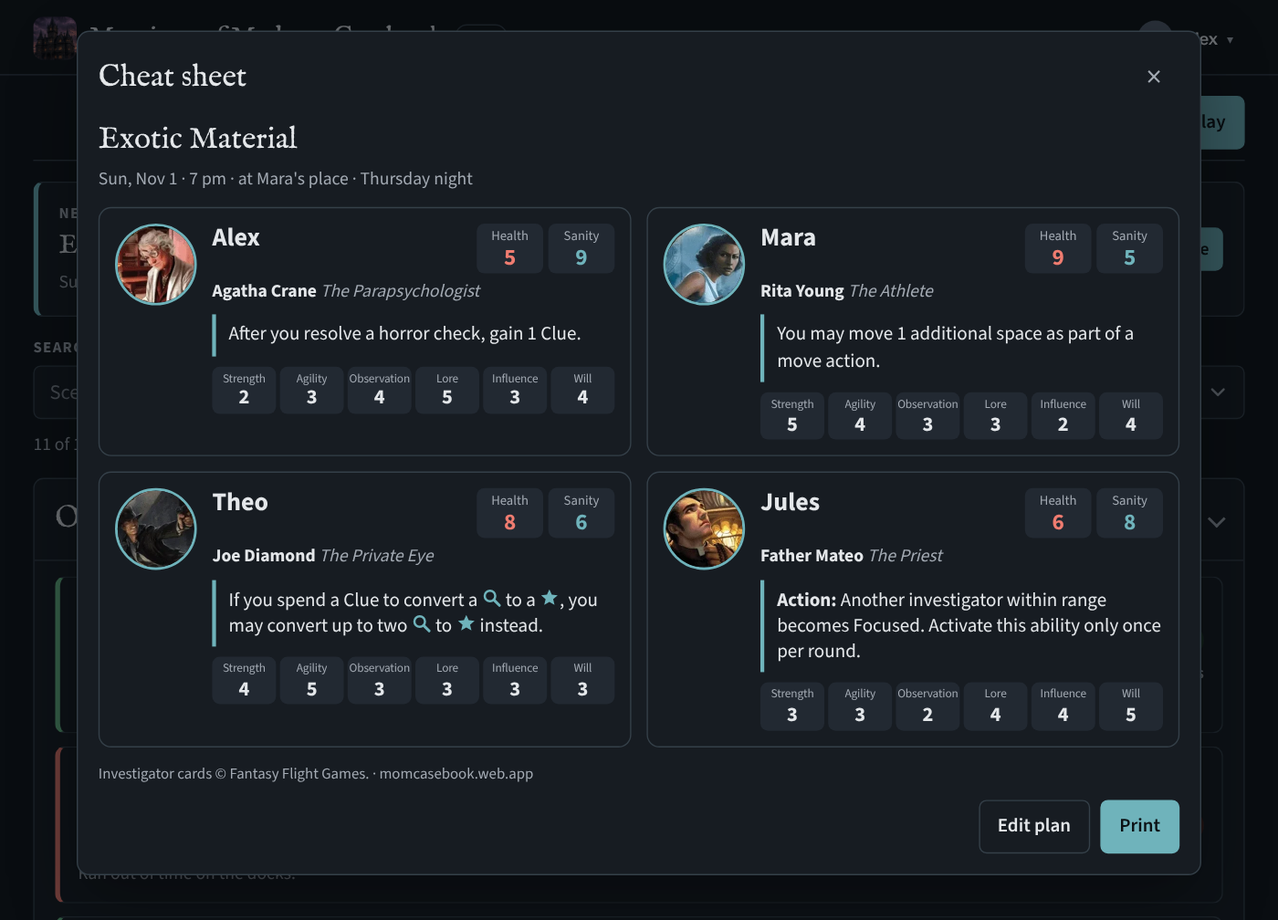
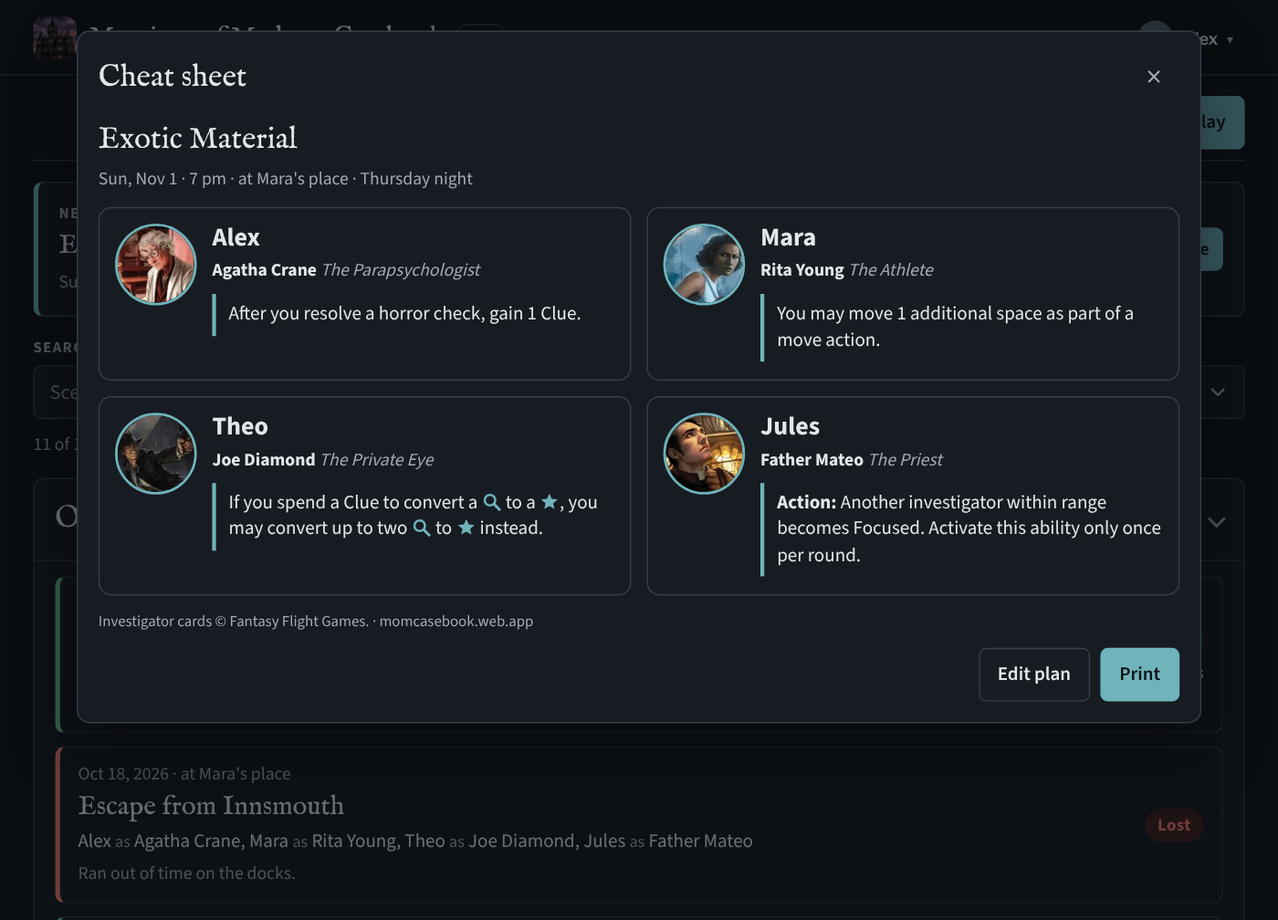
Cheat sheet: just who plays whom and their special, no stats (v87)
Claude-Session: https://claude.ai/code/session_019kh66ouXYwNDK6aTZ456xr

diff --git a/js/investigator-cards.js b/js/investigator-cards.js
@@ -1,48 +1,48 @@
 /* What's printed on each official investigator's card (Mansions of Madness Second Edition), for the game-night cheat
-   sheet: title, health, sanity, the six skills and the ability, in English as on the cards. Read from the card images in
+   sheet: title and ability, in English as on the cards. Read from the card images in
    img/investigators/ (github.com/any2cards/mom2e); Carson Sinclair's image there carries Agatha Crane's ability by
    mistake, so his is from the printed card as quoted by players. Card text © Fantasy Flight Games, used under Asmodee's
    community IP policy. In the ability, {clue} is the magnifying-glass die face and {success} the success (star) face.
-   name: [title, health, sanity, [strength, agility, observation, lore, influence, will], ability] */
+   name: [title, ability] */
 window.MOM_CARDS={
-  'Agatha Crane':['The Parapsychologist',5,9,[2,3,4,5,3,4],'After you resolve a horror check, gain 1 Clue.'],
-  'Agnes Baker':['The Waitress',7,7,[2,3,4,5,4,3],'You begin the game with the Storm of Spirits Spell.'],
-  'Akachi Onyele':['The Shaman',6,8,[3,2,4,4,3,5],'Effects cannot cause you to discard Clues unless you choose to.'],
-  'Amanda Sharpe':['The Student',7,7,[3,3,4,4,3,4],'You may perform two additional puzzle steps while attempting a puzzle.'],
-  '"Ashcan" Pete':['The Drifter',7,7,[4,4,4,3,2,4],'You begin the game with the Duke Unique Item.'],
-  'Bob Jenkins':['The Salesman',7,7,[3,3,4,2,5,4],'Once per round, when you spend an action to interact with a Person, you may flip 1 Horror facedown or discard 1 facedown Horror.'],
-  'Carolyn Fern':['The Psychologist',6,8,[3,2,4,3,4,5],'Action: You or another investigator within range flip 1 Horror facedown or discard 1 facedown Horror.'],
-  'Carson Sinclair':['The Butler',8,6,[3,2,5,4,4,3],'Action: Another investigator within range may perform 1 action. Activate this ability only once per round.'],
-  'Charlie Kane':['The Politician',5,9,[3,2,4,3,5,4],'While within range of a Person, you may convert an {clue} to a {success}. Activate this ability only once per test.'],
-  'Daniela Reyes':['The Mechanic',8,6,[5,4,3,3,3,3],'When a puzzle is solved, you may either gain 2 Clues or discard 1 Horror.'],
-  'Darrell Simmons':['The Photographer',8,6,[3,4,5,3,3,3],'Once per round, if you would gain a Clue, you may become Focused instead.'],
-  'Dexter Drake':['The Magician',6,8,[3,3,3,5,4,3],'Once per round, when you gain a Spell, become Focused.'],
-  'Diana Stanley':['The Reformed Cultist',8,6,[3,4,4,5,3,2],'If you would suffer 2 or more Horror, suffer 1 fewer Horror instead.'],
-  'Father Mateo':['The Priest',6,8,[3,3,2,4,4,5],'Action: Another investigator within range becomes Focused. Activate this ability only once per round.'],
-  'Finn Edwards':['The Bootlegger',8,6,[3,3,4,3,4,4],'Once per round, you may move 1 space before or after performing a Search action.'],
-  'Gloria Goldberg':['The Author',7,7,[2,3,4,4,4,4],'At the start of your turn, if you have no Clues, gain 1 Clue.'],
-  'Harvey Walters':['The Professor',5,9,[3,2,4,4,4,4],'Action: Another investigator within range gains 1 Clue. Activate this ability only once per round.'],
-  'Jenny Barnes':['The Dilettante',8,6,[3,4,3,3,5,3],'Action: If you have no Clues, gain 2 Clues and discard 1 Horror.'],
-  'Jim Culver':['The Musician',6,8,[3,3,3,4,4,4],'You begin the game with the Golden Trumpet Unique Item.'],
-  'Joe Diamond':['The Private Eye',8,6,[4,5,3,3,3,3],'If you spend a Clue to convert a {clue} to a {success}, you may convert up to two {clue} to {success} instead.'],
-  'Kate Winthrop':['The Scientist',6,8,[3,3,5,4,3,3],'You begin the game with the Flux Stabilizer Unique Item.'],
-  'Leo Anderson':['The Expedition Leader',7,7,[4,4,4,2,3,4],'Once per round, when you perform a move action, another investigator may move 1 space.'],
-  'Lily Chen':['The Martial Artist',7,7,[4,4,3,3,3,4],'While you are attacking unarmed, if a monster would suffer 1 or more damage, it suffers 2 additional damage.'],
-  'Mandy Thompson':['The Researcher',6,8,[2,3,5,4,4,3],'Once per round, when you gain a Clue, gain 1 additional Clue.'],
-  'Marie Lambeau':['The Entertainer',6,8,[3,4,2,4,5,3],'At the start of your turn, you may cast a Spell without spending an action.'],
-  'Michael McGlen':['The Gangster',9,5,[5,3,4,2,3,4],'Whenever a monster is defeated, become Focused.'],
-  'Minh Thi Phan':['The Secretary',7,7,[3,4,4,3,4,3],'Once per round, you or another investigator within range may reroll 1 die while resolving a test.'],
-  'Monterey Jack':['The Archaeologist',8,6,[5,3,4,3,3,3],'Other investigators in your space do not need to evade monsters.'],
-  'Norman Withers':['The Astronomer',6,8,[3,3,4,4,2,5],'Action: If you are in an outdoor space, gain 2 Clues or discard 1 Horror. Activate this ability only once per round.'],
-  'Preston Fairmont':['The Millionaire',8,6,[4,4,3,2,4,3],'Once per round, when you gain an Item, you may flip 1 Horror facedown, or discard 1 facedown Horror.'],
-  'Rita Young':['The Athlete',9,5,[5,4,3,3,2,4],'You may move 1 additional space as part of a move action.'],
-  'Silas Marsh':['The Sailor',9,5,[4,5,4,2,3,3],'Once per round, you may flip 1 Horror faceup to reroll one or all of your dice while resolving a test.'],
-  'Sister Mary':['The Nun',6,8,[3,3,3,4,3,5],'Once per round, another investigator within range may convert an {clue} to a {success} while resolving a test.'],
-  'Tommy Muldoon':['The Rookie Cop',7,7,[4,4,4,2,4,3],'You begin the game with the Becky Unique Item.'],
-  'Trish Scarborough':['The Spy',8,6,[4,4,5,2,3,3],'Once per round, you may convert up to two {clue} to {success} while performing a Search action.'],
-  'Ursula Downs':['The Explorer',7,7,[3,4,4,4,3,3],'Once per round, you may move 1 space before or after performing an explore action or resolving the effects of a Sight token.'],
-  'Vincent Lee':['The Doctor',8,6,[4,2,4,3,4,4],'Action: You or another investigator within range flip 1 Damage facedown or discard 1 facedown Damage.'],
-  'Wendy Adams':['The Urchin',6,8,[3,5,4,3,3,3],'You cannot become Stunned or Restrained.'],
-  'William Yorick':['The Gravedigger',7,7,[4,3,4,3,3,4],'Whenever a monster is defeated, gain 1 Clue.'],
-  'Wilson Richards':['The Handyman',8,6,[5,4,3,2,4,3],'After you resolve a horror check, become Focused.']
+  'Agatha Crane':['The Parapsychologist','After you resolve a horror check, gain 1 Clue.'],
+  'Agnes Baker':['The Waitress','You begin the game with the Storm of Spirits Spell.'],
+  'Akachi Onyele':['The Shaman','Effects cannot cause you to discard Clues unless you choose to.'],
+  'Amanda Sharpe':['The Student','You may perform two additional puzzle steps while attempting a puzzle.'],
+  '"Ashcan" Pete':['The Drifter','You begin the game with the Duke Unique Item.'],
+  'Bob Jenkins':['The Salesman','Once per round, when you spend an action to interact with a Person, you may flip 1 Horror facedown or discard 1 facedown Horror.'],
+  'Carolyn Fern':['The Psychologist','Action: You or another investigator within range flip 1 Horror facedown or discard 1 facedown Horror.'],
+  'Carson Sinclair':['The Butler','Action: Another investigator within range may perform 1 action. Activate this ability only once per round.'],
+  'Charlie Kane':['The Politician','While within range of a Person, you may convert an {clue} to a {success}. Activate this ability only once per test.'],
+  'Daniela Reyes':['The Mechanic','When a puzzle is solved, you may either gain 2 Clues or discard 1 Horror.'],
+  'Darrell Simmons':['The Photographer','Once per round, if you would gain a Clue, you may become Focused instead.'],
+  'Dexter Drake':['The Magician','Once per round, when you gain a Spell, become Focused.'],
+  'Diana Stanley':['The Reformed Cultist','If you would suffer 2 or more Horror, suffer 1 fewer Horror instead.'],
+  'Father Mateo':['The Priest','Action: Another investigator within range becomes Focused. Activate this ability only once per round.'],
+  'Finn Edwards':['The Bootlegger','Once per round, you may move 1 space before or after performing a Search action.'],
+  'Gloria Goldberg':['The Author','At the start of your turn, if you have no Clues, gain 1 Clue.'],
+  'Harvey Walters':['The Professor','Action: Another investigator within range gains 1 Clue. Activate this ability only once per round.'],
+  'Jenny Barnes':['The Dilettante','Action: If you have no Clues, gain 2 Clues and discard 1 Horror.'],
+  'Jim Culver':['The Musician','You begin the game with the Golden Trumpet Unique Item.'],
+  'Joe Diamond':['The Private Eye','If you spend a Clue to convert a {clue} to a {success}, you may convert up to two {clue} to {success} instead.'],
+  'Kate Winthrop':['The Scientist','You begin the game with the Flux Stabilizer Unique Item.'],
+  'Leo Anderson':['The Expedition Leader','Once per round, when you perform a move action, another investigator may move 1 space.'],
+  'Lily Chen':['The Martial Artist','While you are attacking unarmed, if a monster would suffer 1 or more damage, it suffers 2 additional damage.'],
+  'Mandy Thompson':['The Researcher','Once per round, when you gain a Clue, gain 1 additional Clue.'],
+  'Marie Lambeau':['The Entertainer','At the start of your turn, you may cast a Spell without spending an action.'],
+  'Michael McGlen':['The Gangster','Whenever a monster is defeated, become Focused.'],
+  'Minh Thi Phan':['The Secretary','Once per round, you or another investigator within range may reroll 1 die while resolving a test.'],
+  'Monterey Jack':['The Archaeologist','Other investigators in your space do not need to evade monsters.'],
+  'Norman Withers':['The Astronomer','Action: If you are in an outdoor space, gain 2 Clues or discard 1 Horror. Activate this ability only once per round.'],
+  'Preston Fairmont':['The Millionaire','Once per round, when you gain an Item, you may flip 1 Horror facedown, or discard 1 facedown Horror.'],
+  'Rita Young':['The Athlete','You may move 1 additional space as part of a move action.'],
+  'Silas Marsh':['The Sailor','Once per round, you may flip 1 Horror faceup to reroll one or all of your dice while resolving a test.'],
+  'Sister Mary':['The Nun','Once per round, another investigator within range may convert an {clue} to a {success} while resolving a test.'],
+  'Tommy Muldoon':['The Rookie Cop','You begin the game with the Becky Unique Item.'],
+  'Trish Scarborough':['The Spy','Once per round, you may convert up to two {clue} to {success} while performing a Search action.'],
+  'Ursula Downs':['The Explorer','Once per round, you may move 1 space before or after performing an explore action or resolving the effects of a Sight token.'],
+  'Vincent Lee':['The Doctor','Action: You or another investigator within range flip 1 Damage facedown or discard 1 facedown Damage.'],
+  'Wendy Adams':['The Urchin','You cannot become Stunned or Restrained.'],
+  'William Yorick':['The Gravedigger','Whenever a monster is defeated, gain 1 Clue.'],
+  'Wilson Richards':['The Handyman','After you resolve a horror check, become Focused.']
 };

diff --git a/css/app.css b/css/app.css
@@ -579,21 +579,10 @@ button.ipill:focus-visible{outline:2px solid var(--focus);outline-offset:2px}
 .ch-ab{margin:4px 0 2px;padding:6px 0 6px 10px;border-left:3px solid var(--accent);font-size:15px;line-height:1.35}
 .ch-ab .die{display:inline-block;width:1.05em;height:1.05em;vertical-align:-.15em;color:var(--accent)}
 .ch-ab .die svg{width:100%;height:100%;display:block}
-.ch-top{display:flex;align-items:flex-start;justify-content:space-between;gap:8px}
-.ch-hs{display:flex;gap:4px;flex:none}
-.ch-hs span{display:flex;flex-direction:column;align-items:center;min-width:52px;padding:2px 6px;border-radius:6px;background:var(--surface2)}
-.ch-hs i,.ch-stats i{font-style:normal;font-size:10.5px;color:var(--muted);max-width:100%;overflow:hidden;text-overflow:ellipsis;white-space:nowrap}
-.ch-hs b{font-size:18px;line-height:1.1}
-.ch-h b{color:var(--bad)}
-.ch-s b{color:var(--accent)}
-.ch-stats{display:grid;grid-template-columns:repeat(6,minmax(0,1fr));gap:3px;margin-top:2px;text-align:center}
-.ch-stats span{display:flex;flex-direction:column;align-items:center;padding:3px 1px;border-radius:6px;background:var(--surface2);min-width:0}
-.ch-stats b{font-size:16px;line-height:1.1}
-.ch-stats i{font-size:9.5px;letter-spacing:-.01em}
 .dlg .ch-head .lbl{display:none}
 .ch-foot{margin:12px 0 0;font-size:12px;color:var(--muted)}
 #printarea{display:none}
-@media (max-width:420px){.ch-grid{grid-template-columns:1fr}.ch-face{width:48px;height:48px}.ch-stats{grid-template-columns:repeat(3,minmax(0,1fr))}}
+@media (max-width:420px){.ch-grid{grid-template-columns:1fr}.ch-face{width:48px;height:48px}}
 @media print{
   @page{margin:12mm}
   body.printing>*:not(#printarea){display:none!important}
@@ -602,11 +591,8 @@ button.ipill:focus-visible{outline:2px solid var(--focus);outline-offset:2px}
   body.printing #printarea{display:block;font-size:12pt;--surface:#fff;--surface2:#e1e5e8;--ink:#1a1f26;--muted:#555d68;--line:#bcc3ca;--accent:#1d5c63;--bad:#a3322a;color:var(--ink)}
   /* one wide card per seat: big enough to read across the table, up to eight on a page */
   #printarea .ch-grid{grid-template-columns:1fr;gap:8px}
-  #printarea .ch-card{padding:8px 12px;gap:14px}
+  #printarea .ch-card{padding:8px 12px;gap:14px;align-items:center}
   #printarea .ch-face{width:58px;height:58px}
-  #printarea .ch-body{display:grid;grid-template-columns:minmax(0,1fr) auto;column-gap:16px;row-gap:2px}
-  #printarea .ch-top,#printarea .ch-inv,#printarea .ch-ab{grid-column:1}
-  #printarea .ch-stats{grid-column:2;grid-row:1/4;align-self:center;grid-template-columns:repeat(3,64px)}
   #printarea .ch-ab{font-size:13pt;margin:2px 0 0}
   #printarea *{-webkit-print-color-adjust:exact;print-color-adjust:exact}
 }

diff --git a/js/app.js b/js/app.js
@@ -427,16 +427,12 @@ function abilityHtml(txt){
   return esc(txt).replace(/^Action:/,'<b>Action:</b>').replace(/\{(clue|success)\}/g,function(m,k){var nm=k==='clue'?t('clue (magnifying glass)'):t('success');return '<span class="die" role="img" aria-label="'+nm+'" title="'+nm+'">'+DIE_ICON[k]+'</span>';});
 }
 function cheatHtml(sc,pl){
-  var sk=[t('Strength'),t('Agility'),t('Observation'),t('Lore'),t('Influence'),t('Will')];
   var cast=(pl.party||[]).filter(function(x){return x.investigator&&MOM_CARDS[x.investigator];});
   var card=function(x){var c=MOM_CARDS[x.investigator];
     return '<article class="ch-card"><img class="ch-face" src="'+invImg(x.investigator,'face')+'" alt="" width="160" height="160"><div class="ch-body">'+
-      '<div class="ch-top"><div class="ch-who">'+(x.player?esc(x.player):'<span class="note">'+t('No player yet')+'</span>')+'</div>'+
-      '<div class="ch-hs"><span class="ch-h"><i>'+t('Health')+'</i><b>'+c[1]+'</b></span><span class="ch-s"><i>'+t('Sanity')+'</i><b>'+c[2]+'</b></span></div></div>'+
+      '<div class="ch-who">'+(x.player?esc(x.player):'<span class="note">'+t('No player yet')+'</span>')+'</div>'+
       '<div class="ch-inv"><b>'+esc(x.investigator)+'</b> <span>'+esc(c[0])+'</span></div>'+
-      '<p class="ch-ab">'+abilityHtml(c[4])+'</p>'+
-      '<div class="ch-stats">'+
-      sk.map(function(n,i){return '<span title="'+n+'"><i>'+n+'</i><b>'+c[3][i]+'</b></span>';}).join('')+'</div></div></article>';};
+      '<p class="ch-ab">'+abilityHtml(c[1])+'</p></div></article>';};
   return '<div class="cheat"><header class="ch-head"><span class="lbl">'+t('Cheat sheet')+'</span><h2>'+esc(scName(sc.id,sc.name))+'</h2><p class="note">'+esc(planText(pl))+'</p></header>'+
     '<div class="ch-grid">'+cast.map(card).join('')+'</div>'+
     '<p class="ch-foot">'+(I18N.lang&&I18N.lang!=='en'?t('Card text is in English, as printed on the cards.')+' ':'')+t('Investigator cards © Fantasy Flight Games.')+' · momcasebook.web.app</p></div>';

diff --git a/test/house-rules.test.js b/test/house-rules.test.js
@@ -29,9 +29,9 @@ const rulesInv=[...(fs.readFileSync(path.join(root,'firestore.rules'),'utf8').ma
 const catInv=globalThis.MOM.INVESTIGATORS;
 if(JSON.stringify(rulesInv)!==JSON.stringify(catInv)){console.error('firestore.rules investigators() differs from js/catalog.js:\n  rules: '+rulesInv.length+'\n  catalog: '+catInv.length);process.exit(1);}
 console.log('investigators: '+catInv.length+' official, rules match');
-// 3b. Each official investigator's card (js/investigator-cards.js, for the cheat sheet): title, health, sanity, six skills, ability.
+// 3b. Each official investigator's card (js/investigator-cards.js, for the cheat sheet): title and ability.
 {const w={};new Function('window',fs.readFileSync(path.join(root,'js/investigator-cards.js'),'utf8'))(w);const C=w.MOM_CARDS,bad=[];
- catInv.forEach(n=>{const c=C[n];if(!c||typeof c[0]!=='string'||!/^The /.test(c[0])||![c[1],c[2]].every(x=>x>=4&&x<=10)||!Array.isArray(c[3])||c[3].length!==6||!c[3].every(x=>x>=1&&x<=6)||typeof c[4]!=='string'||c[4].length<20)bad.push(n);});
+ catInv.forEach(n=>{const c=C[n];if(!c||c.length!==2||typeof c[0]!=='string'||!/^The /.test(c[0])||typeof c[1]!=='string'||c[1].length<20)bad.push(n);});
  Object.keys(C).forEach(n=>{if(catInv.indexOf(n)<0)bad.push(n+' (not official)');});
  if(bad.length){console.error('Investigator cards missing or malformed: '+bad.join(', '));process.exit(1);}
  console.log('investigator cards: '+Object.keys(C).length+', complete');}

diff --git a/js/lang/fr.js b/js/lang/fr.js
@@ -191,15 +191,7 @@ I18N.add('fr',[
 [`Pick everyone’s investigator now to print a cheat sheet of who plays whom and their abilities.`,`Choisissez dès maintenant l’investigateur de chacun pour imprimer un aide-mémoire de qui joue qui et de leurs capacités.`],
 [`clue (magnifying glass)`,`indice (loupe)`],
 [`success`,`succès`],
-[`Strength`,`Force`],
-[`Agility`,`Agilité`],
-[`Observation`,`Observation`],
-[`Lore`,`Savoir`],
-[`Influence`,`Influence`],
-[`Will`,`Volonté`],
 [`No player yet`,`Pas encore de joueur`],
-[`Health`,`Santé`],
-[`Sanity`,`Santé mentale`],
 [`Card text is in English, as printed on the cards.`,`Le texte des cartes est en anglais, tel qu’imprimé sur les cartes.`],
 [`Investigator cards © Fantasy Flight Games.`,`Cartes d’investigateur © Fantasy Flight Games.`],
 [`Print`,`Imprimer`],

diff --git a/js/lang/es.js b/js/lang/es.js
@@ -191,15 +191,7 @@ I18N.add('es',[
 [`Pick everyone’s investigator now to print a cheat sheet of who plays whom and their abilities.`,`Elige ya el investigador de cada uno para imprimir una chuleta de quién lleva a quién y sus habilidades.`],
 [`clue (magnifying glass)`,`pista (lupa)`],
 [`success`,`éxito`],
-[`Strength`,`Fuerza`],
-[`Agility`,`Agilidad`],
-[`Observation`,`Observación`],
-[`Lore`,`Saber`],
-[`Influence`,`Influencia`],
-[`Will`,`Voluntad`],
 [`No player yet`,`Sin jugador aún`],
-[`Health`,`Salud`],
-[`Sanity`,`Cordura`],
 [`Card text is in English, as printed on the cards.`,`El texto de las cartas está en inglés, tal como aparece en ellas.`],
 [`Investigator cards © Fantasy Flight Games.`,`Cartas de investigador © Fantasy Flight Games.`],
 [`Print`,`Imprimir`],

diff --git a/js/lang/pt.js b/js/lang/pt.js
@@ -191,15 +191,7 @@ I18N.add('pt',[
 [`Pick everyone’s investigator now to print a cheat sheet of who plays whom and their abilities.`,`Escolha já o investigador de cada um para imprimir uma cola de quem joga com quem e suas habilidades.`],
 [`clue (magnifying glass)`,`pista (lupa)`],
 [`success`,`sucesso`],
-[`Strength`,`Força`],
-[`Agility`,`Agilidade`],
-[`Observation`,`Observação`],
-[`Lore`,`Conhecimento`],
-[`Influence`,`Influência`],
-[`Will`,`Vontade`],
 [`No player yet`,`Ainda sem jogador`],
-[`Health`,`Vida`],
-[`Sanity`,`Sanidade`],
 [`Card text is in English, as printed on the cards.`,`O texto das cartas está em inglês, como impresso nelas.`],
 [`Investigator cards © Fantasy Flight Games.`,`Cartas de investigador © Fantasy Flight Games.`],
 [`Print`,`Imprimir`],

diff --git a/js/lang/ca.js b/js/lang/ca.js
@@ -191,15 +191,7 @@ I18N.add('ca',[
 [`Pick everyone’s investigator now to print a cheat sheet of who plays whom and their abilities.`,`Tria ara l’investigador de cadascú per imprimir una xuleta de qui porta qui i les seves habilitats.`],
 [`clue (magnifying glass)`,`pista (lupa)`],
 [`success`,`èxit`],
-[`Strength`,`Força`],
-[`Agility`,`Agilitat`],
-[`Observation`,`Observació`],
-[`Lore`,`Saviesa`],
-[`Influence`,`Influència`],
-[`Will`,`Voluntat`],
 [`No player yet`,`Encara sense jugador`],
-[`Health`,`Salut`],
-[`Sanity`,`Seny`],
 [`Card text is in English, as printed on the cards.`,`El text de les cartes és en anglès, tal com hi apareix.`],
 [`Investigator cards © Fantasy Flight Games.`,`Cartes d’investigador © Fantasy Flight Games.`],
 [`Print`,`Imprimeix`],

diff --git a/js/lang/pl.js b/js/lang/pl.js
@@ -192,15 +192,7 @@ I18N.add('pl',[
 [`Pick everyone’s investigator now to print a cheat sheet of who plays whom and their abilities.`,`Wybierz teraz badaczy dla wszystkich, aby wydrukować ściągawkę: kto gra kim i jakie ma zdolności.`],
 [`clue (magnifying glass)`,`trop (lupa)`],
 [`success`,`sukces`],
-[`Strength`,`Siła`],
-[`Agility`,`Zręczność`],
-[`Observation`,`Spostrzegawczość`],
-[`Lore`,`Wiedza`],
-[`Influence`,`Wpływy`],
-[`Will`,`Wola`],
 [`No player yet`,`Jeszcze bez gracza`],
-[`Health`,`Zdrowie`],
-[`Sanity`,`Poczytalność`],
 [`Card text is in English, as printed on the cards.`,`Tekst kart jest po angielsku, tak jak na kartach.`],
 [`Investigator cards © Fantasy Flight Games.`,`Karty badaczy © Fantasy Flight Games.`],
 [`Print`,`Drukuj`],

diff --git a/js/version.js b/js/version.js
@@ -1,3 +1,3 @@
 /* The one place the version lives. Bump it with every change (see CLAUDE.md): every page's footer and the
    account menu show it, and the offline cache in sw.js is named after it, so a bump also refreshes installed apps. */
-self.APP_VERSION='v86';
+self.APP_VERSION='v87';

diff --git a/README.md b/README.md
@@ -21,7 +21,7 @@ This repo is the code behind the live site. It isn't packaged for running your o
 - **Where you played.** An optional location on each play (a new play starts empty). Clicking the box lists every place you've played or scheduled a game, once each, with a tick on the one chosen; typing narrows the list, and a phone gets its own picker with **Somewhere new…**. Different spellings of the same place (case, curly or straight apostrophes, extra spaces) count as one place: it's suggested, shown, counted in Stats and saved in its usual spelling. A phone's curly apostrophe is saved as the plain one a computer types, and plays saved earlier with another spelling are rewritten in the usual one automatically when the casebook loads. **Settings → Places** lists them all; **Rename** changes a place in every play and scheduled game, and giving it the name of another place merges the two. Rules work the same way, with **Other rules…** on a phone.
 - **Starred and scheduled.** Star scenarios you want to play soon (the star is at the start of every scenario row); they gather in a **Starred** box at the top of the Scenarios tab. **Schedule** one with a date, optional time, place, who's playing and a note: pick each player and their investigator, or **Fill in from a group** (everyone gets their usual investigator); scheduled games sort first, show on the Plays tab as **Next game**, and can be added to Google Calendar or Apple Calendar/Outlook (.ics). **Log this game** opens the play form filled in from the plan (scenario, the group's players, place, date) and takes it off the starred list once saved.
 - **Nothing lost by a stray tap.** Once you've typed or picked anything in a form (logging a play, a player, a group, a schedule, feedback), a click outside it, Escape, × or Cancel asks **Discard your changes?** first, with **Keep editing** as the default.
-- **Cheat sheet.** Once a scheduled game has its investigators picked, **Cheat sheet** (on the game in Starred and on **Next game**) shows a card for each seat: who's playing, their investigator and title, health, sanity, the six skills and the investigator's ability, with the die symbols drawn in. **Print** prints just the sheet, one wide card per seat on a light page, so the table can keep it handy and nobody forgets their special. The card text is in English, as printed on the cards (`js/investigator-cards.js`).
+- **Cheat sheet.** Once a scheduled game has its investigators picked, **Cheat sheet** (on the game in Starred and on **Next game**) shows a card for each seat: who's playing, their investigator and the investigator's special ability, with the die symbols drawn in. **Print** prints just the sheet, one wide card per seat on a light page, so the table can keep it handy and nobody forgets their special. The card text is in English, as printed on the cards (`js/investigator-cards.js`).
 - **Play again.** Scenarios you've played show **Play again** (with a replay icon) instead of Log a play: the form opens with the same players, investigators, rules and place as last time, and the attempt number goes up after a loss.
 - **Packing lists.** Every Valkyrie scenario has a **Packing list** (also on the Next game card): the tiles it uses in the order they first come into play (worked out by following the scenario's events from its start; switch to **By tile number** to find them in the box), every one from a Fantasy Flight box numbered as in the community [Mansions of Madness Tiles Index v5.2](https://boardgamegeek.com/filepage/147448/mansions-of-madness-tiles-index), each with a color-coded tag for the set whose symbol is printed on it (Core, 1E, CotW, FA, BtT, SoA, SoT, HJ, PotS; first-edition pieces also say which box reprints them) and the side on its back, the tiles only needed for 6 players, and the monster figures (with the custom monsters each one stands in for). Tick things off as you pack; the ticks stay on that device. Each scenario also says which boxes it **needs**, flagging any not ticked in Settings, and the Scenarios tab can show only those **Playable with what I own**. It's the website version of the [valkyrie-tools packlist](https://github.com/maniac782/valkyrie-tools/tree/main/packlist), built from each scenario file by `scripts/fetch-packlists.py` and refreshed with the weekly Valkyrie update. Each tile and monster shows its picture (© Fantasy Flight Games; see *Art*): tap the picture to see it full size and swipe or use the arrows to go through the list, and tap anywhere else on the row to tick it off.
 - **Players.** The people you play with, without them needing accounts: just their names, an optional note and optionally **their investigator**, whose round portrait takes the place of their initial with a **Plays …** line under their name (tap either for the full card, and tap again or **Flip card** to see the back; that investigator is also filled in for them when you log a play), with plays, win rate, last game and **Played as**: every investigator they've taken, most played first, each with a small portrait and how many games (tap one for its card). Put them in **groups** (one person can be in several); when logging a play, pick a group to fill in the seats, then adjust for that scenario. Names already typed into plays can be saved with one tap, and renaming someone can update their past plays too.
@@ -61,7 +61,7 @@ This repo is the code behind the live site. It isn't packaged for running your o
 
 ![The next game on the Plays tab with the Add to calendar menu open](docs/screenshots/next-game.png)
 
-![The cheat sheet for a scheduled game: a card per player with their investigator, health, sanity, skills and ability](docs/screenshots/cheat-sheet.png)
+![The cheat sheet for a scheduled game: a card per player with their investigator and special ability](docs/screenshots/cheat-sheet.png)
 
 <table>
 <tr>
@@ -115,7 +115,7 @@ Plain HTML, CSS and JavaScript, no build step. Firebase compat SDK 10 (Authentic
 | `index.html`, `js/app.js` | The main app: sign-in, Plays, Scenarios, Players, Stats, Settings |
 | `admin.html`, `js/admin.js` | The admin page |
 | `js/catalog.js` | Official scenarios by product, the 40 official investigators, name matching |
-| `js/investigator-cards.js` | What's printed on each investigator's card (title, health, sanity, skills, ability) for the cheat sheet; CI checks all 40 are there |
+| `js/investigator-cards.js` | Each investigator's title and ability, as printed on the card, for the cheat sheet; CI checks all 40 are there |
 | `js/reviews.js` | Published reviews of scenarios, collected by hand: source link, date and a one-line summary written for this site |
 | `js/valkyrie.js` | The built-in Valkyrie scenario list. Generated by `scripts/fetch-valkyrie.py`; re-run it to pick up new scenarios, then bump the version |
 | `js/importer.js` | Google Sheets / CSV import and CSV export (pure functions, tested in Node) |
